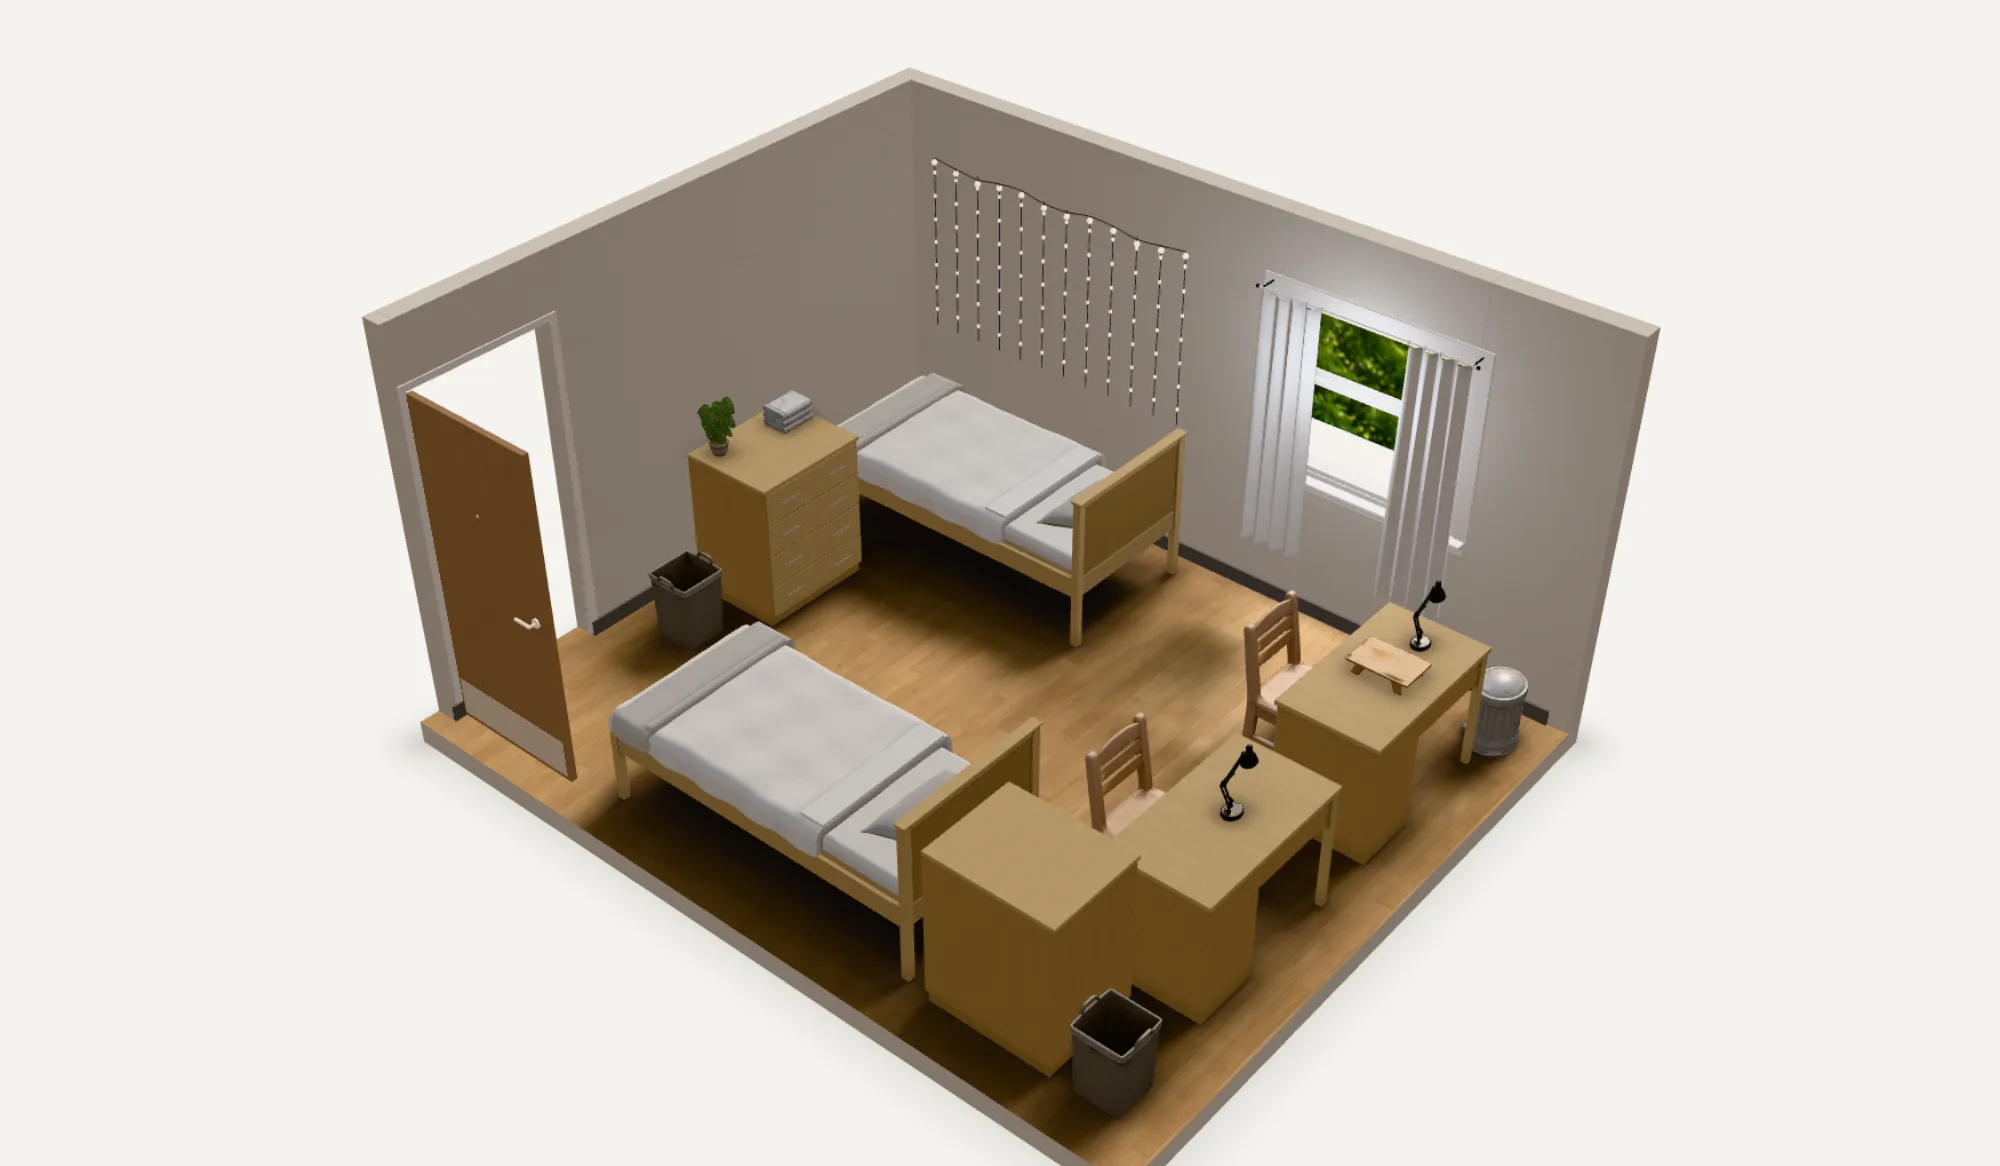
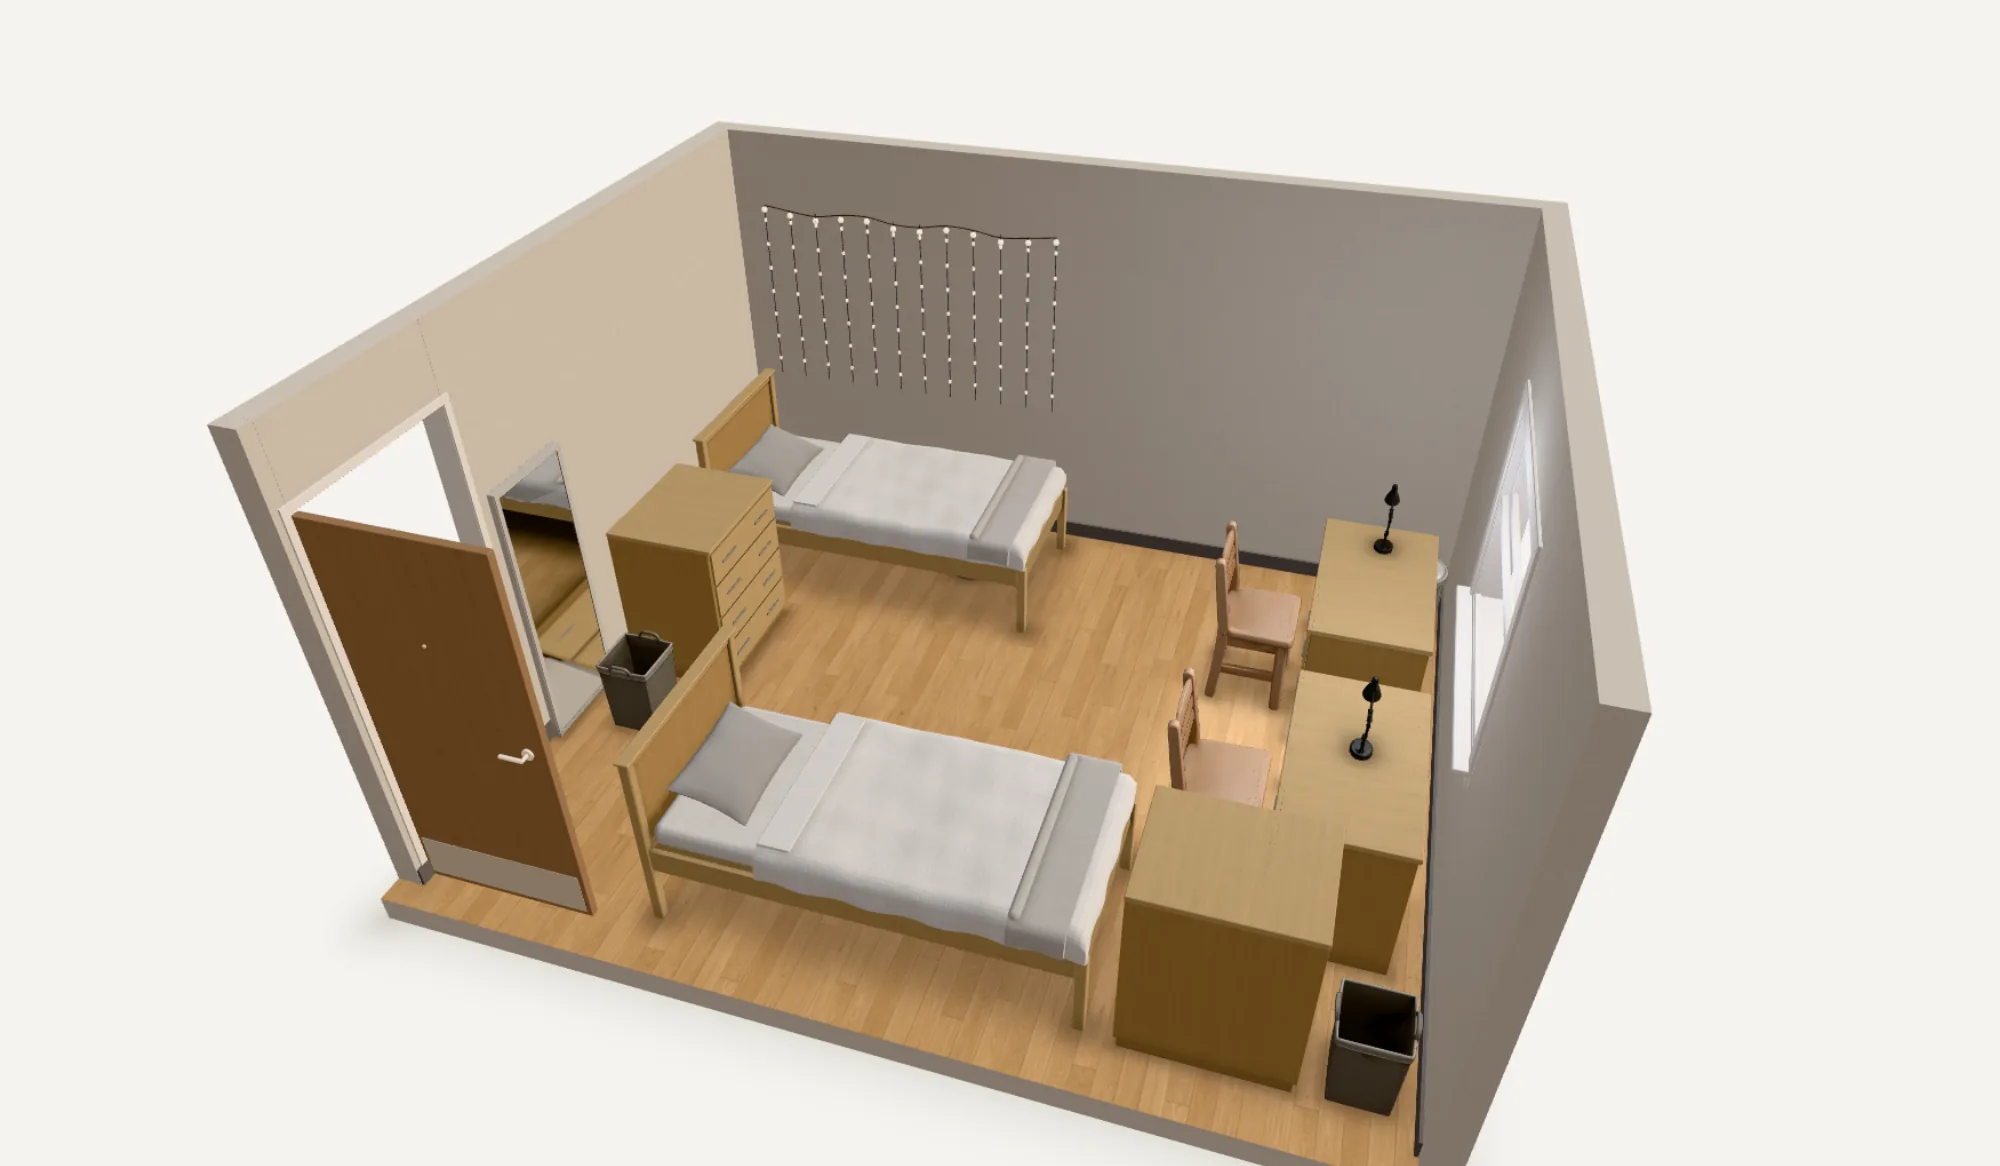
Hero demo: the live hero's layout and framing, the full-length mirror back, no glow on the bean bag
Re-rendered the room in the template's own layout, as the live hero shows it: heads of both beds at the door
wall, dresser and full-length mirror on that wall, desks and chairs under the window on the right, string lights
on the back wall. The camera is closer with a wider lens, so the room fills the stage and all three walls (door,
lights, window) show. The bean bag lands between the back bed and the desk chair, with nothing in front of it at
either end of its move, so the extra occluder layer is gone, and it moves without the pink drop-shadow glow.

Claude-Session: https://claude.ai/code/session_01S6YCHmBKmE3hFcSRhUhYcX

diff --git a/components/home/Hero.module.css b/components/home/Hero.module.css
@@ -240,10 +240,9 @@
 .ly { position: absolute; pointer-events: none; user-select: none; }
 .ly img { object-fit: fill; }
 .lyRoom { inset: 0; }
-.lyRug { left: 38.950%; top: 50.943%; width: 20.150%; height: 21.612%; animation: sprRug 12s linear infinite; }
-.lyOcc { left: 34.350%; top: 49.228%; width: 25.750%; height: 26.158%; }
-.lyBean { left: 54.750%; top: 42.967%; width: 11.200%; height: 16.638%; animation: sprBean 12s linear infinite; }
-.lyFront { left: 50.900%; top: 51.887%; width: 12.850%; height: 11.321%; }
+.lyRug { left: 38.450%; top: 53.173%; width: 19.550%; height: 18.611%; animation: sprRug 12s linear infinite; }
+.lyOcc { left: 33.450%; top: 51.372%; width: 25.600%; height: 23.585%; }
+.lyBean { left: 49.850%; top: 40.995%; width: 11.450%; height: 14.837%; animation: sprBean 12s linear infinite; }
 .dims { position: absolute; inset: 0; width: 100%; height: 100%; overflow: visible; pointer-events: none; }
 .dims line { stroke: var(--ds-blue); stroke-linecap: round; vector-effect: non-scaling-stroke; }
 .dl { stroke-width: 1.75; stroke-dasharray: 1; stroke-dashoffset: 0; }
@@ -304,8 +303,8 @@
   box-shadow: 0.25em 0.25em 0 var(--ds-ink);
   opacity: 0;
 }
-.curC { transform: translate(59.75%, 50.6%); animation: curC 12s linear infinite; }
-.curJ { transform: translate(48.94%, 61.04%); animation: curJ 12s linear infinite; }
+.curC { transform: translate(56.08%, 46.3%); animation: curC 12s linear infinite; }
+.curJ { transform: translate(48.59%, 57.6%); animation: curJ 12s linear infinite; }
 .curC .cname { background: var(--ds-magenta); }
 .curJ .cname { background: var(--ds-blue); }
 .curC .arrow { animation: pressC 12s infinite; }
@@ -384,8 +383,8 @@
 .heroCap .ft { color: var(--ds-ink); font-weight: 750; }
 
 /* ---------- The 12 s loop. Every element runs on the same clock. ---------- */
-@keyframes curC{0%{transform:translate(72%,62%);animation-timing-function:cubic-bezier(.65,0,.35,1)}4.167%{transform:translate(72%,62%);animation-timing-function:cubic-bezier(.65,0,.35,1)}10.417%{transform:translate(52.66%,56.99%)}11.25%{transform:translate(52.66%,56.99%);animation-timing-function:cubic-bezier(.45,0,.2,1)}25%{transform:translate(59.75%,50.6%)}27.5%{transform:translate(59.75%,50.6%);animation-timing-function:cubic-bezier(.65,0,.35,1)}35.833%{transform:translate(69%,34%);animation-timing-function:cubic-bezier(.65,0,.35,1)}45%{transform:translate(69.8%,35.7%);animation-timing-function:cubic-bezier(.65,0,.35,1)}54.167%{transform:translate(68.6%,35%)}64.167%{transform:translate(68.6%,35%);animation-timing-function:cubic-bezier(.65,0,.35,1)}70.833%{transform:translate(42%,69%)}75%{transform:translate(42%,69%);animation-timing-function:cubic-bezier(.65,0,.35,1)}84.167%{transform:translate(43.5%,71.5%)}90.833%{transform:translate(43.5%,71.5%);animation-timing-function:cubic-bezier(.65,0,.35,1)}100%{transform:translate(72%,62%)}}
-@keyframes curJ{0%{transform:translate(28%,67%);animation-timing-function:cubic-bezier(.65,0,.35,1)}11.667%{transform:translate(29.8%,65%);animation-timing-function:cubic-bezier(.65,0,.35,1)}23.333%{transform:translate(28.6%,68%)}28.333%{transform:translate(28.6%,68%);animation-timing-function:cubic-bezier(.65,0,.35,1)}35.833%{transform:translate(45.3%,59.66%)}36.667%{transform:translate(45.3%,59.66%);animation-timing-function:cubic-bezier(.45,0,.2,1)}53.333%{transform:translate(48.94%,61.04%)}62.5%{transform:translate(48.94%,61.04%);animation-timing-function:cubic-bezier(.65,0,.35,1)}68.333%{transform:translate(45%,35%)}72.5%{transform:translate(45%,35%);animation-timing-function:cubic-bezier(.65,0,.35,1)}79.167%{transform:translate(46%,37%)}90.833%{transform:translate(46%,37%);animation-timing-function:cubic-bezier(.65,0,.35,1)}100%{transform:translate(28%,67%)}}
+@keyframes curC{0%{transform:translate(64%,76%);animation-timing-function:cubic-bezier(.65,0,.35,1)}4.167%{transform:translate(64%,76%);animation-timing-function:cubic-bezier(.65,0,.35,1)}10.417%{transform:translate(50.88%,55.92%)}11.25%{transform:translate(50.88%,55.92%);animation-timing-function:cubic-bezier(.45,0,.2,1)}25%{transform:translate(56.08%,46.3%)}27.5%{transform:translate(56.08%,46.3%);animation-timing-function:cubic-bezier(.65,0,.35,1)}35.833%{transform:translate(74%,45%);animation-timing-function:cubic-bezier(.65,0,.35,1)}45%{transform:translate(74.8%,47%);animation-timing-function:cubic-bezier(.65,0,.35,1)}54.167%{transform:translate(73.6%,46%)}64.167%{transform:translate(73.6%,46%);animation-timing-function:cubic-bezier(.65,0,.35,1)}70.833%{transform:translate(42.5%,71.5%)}75%{transform:translate(42.5%,71.5%);animation-timing-function:cubic-bezier(.65,0,.35,1)}84.167%{transform:translate(44%,74%)}90.833%{transform:translate(44%,74%);animation-timing-function:cubic-bezier(.65,0,.35,1)}100%{transform:translate(64%,76%)}}
+@keyframes curJ{0%{transform:translate(27%,77%);animation-timing-function:cubic-bezier(.65,0,.35,1)}11.667%{transform:translate(28.8%,75%);animation-timing-function:cubic-bezier(.65,0,.35,1)}23.333%{transform:translate(27.6%,78%)}28.333%{transform:translate(27.6%,78%);animation-timing-function:cubic-bezier(.65,0,.35,1)}35.833%{transform:translate(45.01%,57.3%)}36.667%{transform:translate(45.01%,57.3%);animation-timing-function:cubic-bezier(.45,0,.2,1)}53.333%{transform:translate(48.59%,57.6%)}62.5%{transform:translate(48.59%,57.6%);animation-timing-function:cubic-bezier(.65,0,.35,1)}68.333%{transform:translate(43.5%,33.5%)}72.5%{transform:translate(43.5%,33.5%);animation-timing-function:cubic-bezier(.65,0,.35,1)}79.167%{transform:translate(45%,35.5%)}90.833%{transform:translate(45%,35.5%);animation-timing-function:cubic-bezier(.65,0,.35,1)}100%{transform:translate(27%,77%)}}
 @keyframes pressC{0%,10.417%{transform:none}11.25%,25%{transform:scale(.84)}26.25%,70.833%{transform:none}71.667%{transform:scale(.8)}73.333%,100%{transform:none}}
 @keyframes pressJ{0%,35.833%{transform:none}36.667%,53.333%{transform:scale(.84)}54.583%,68.333%{transform:none}69.167%{transform:scale(.8)}70.833%,100%{transform:none}}
 @keyframes talkC{0%,2.5%{opacity:0}4.583%,21.667%{opacity:1}23.333%,55%{opacity:0}57.083%,64.167%{opacity:1}65.833%,100%{opacity:0}}
@@ -394,8 +393,8 @@
 @keyframes capJ1{0%,24.167%{opacity:0;transform:translateY(.4em)}26.25%,34.167%{opacity:1;transform:none}35.833%,100%{opacity:0;transform:translateY(-.2em)}}
 @keyframes capC2{0%,55%{opacity:0;transform:translateY(.4em)}57.083%,64.167%{opacity:1;transform:none}65.833%,100%{opacity:0;transform:translateY(-.2em)}}
 @keyframes capJ2{0%,75%{opacity:0;transform:translateY(.4em)}77.083%,87.5%{opacity:1;transform:none}89.167%,100%{opacity:0;transform:translateY(-.2em)}}
-@keyframes sprBean{0%{transform:translate(-63.31%,38.4%) scale(1.04);opacity:1;filter:drop-shadow(0 0 0 rgba(192,24,111,0))}10.417%{filter:drop-shadow(0 0 0 rgba(192,24,111,0))}11.25%{transform:translate(-63.31%,38.4%) scale(1.04);filter:drop-shadow(0 0 4px rgba(192,24,111,.95));animation-timing-function:cubic-bezier(.45,0,.2,1)}25%{transform:none;filter:drop-shadow(0 0 4px rgba(192,24,111,.95))}27.5%{filter:drop-shadow(0 0 0 rgba(192,24,111,0))}93.333%{transform:none;opacity:1}95.833%{transform:none;opacity:0}96.25%{transform:translate(-63.31%,38.4%) scale(1.04);opacity:0}100%{transform:translate(-63.31%,38.4%) scale(1.04);opacity:1;filter:drop-shadow(0 0 0 rgba(192,24,111,0))}}
-@keyframes sprRug{0%{transform:translate(-18.07%,-6.38%) scale(.99);opacity:1;filter:drop-shadow(0 0 0 rgba(36,73,255,0))}35.833%{filter:drop-shadow(0 0 0 rgba(36,73,255,0))}36.667%{transform:translate(-18.07%,-6.38%) scale(.99);filter:drop-shadow(0 0 4px rgba(36,73,255,.95));animation-timing-function:cubic-bezier(.45,0,.2,1)}53.333%{transform:none;filter:drop-shadow(0 0 4px rgba(36,73,255,.95))}55.833%{filter:drop-shadow(0 0 0 rgba(36,73,255,0))}93.333%{transform:none;opacity:1}95.833%{transform:none;opacity:0}96.25%{transform:translate(-18.07%,-6.38%) scale(.99);opacity:0}100%{transform:translate(-18.07%,-6.38%) scale(.99);opacity:1;filter:drop-shadow(0 0 0 rgba(36,73,255,0))}}
+@keyframes sprBean{0%{transform:translate(-45.42%,64.88%) scale(1.06);opacity:1}11.25%{transform:translate(-45.42%,64.88%) scale(1.06);animation-timing-function:cubic-bezier(.45,0,.2,1)}25%{transform:none}93.333%{transform:none;opacity:1}95.833%{transform:none;opacity:0}96.25%{transform:translate(-45.42%,64.88%) scale(1.06);opacity:0}100%{transform:translate(-45.42%,64.88%) scale(1.06);opacity:1}}
+@keyframes sprRug{0%{transform:translate(-18.3%,-1.65%) scale(.98);opacity:1;filter:drop-shadow(0 0 0 rgba(36,73,255,0))}35.833%{filter:drop-shadow(0 0 0 rgba(36,73,255,0))}36.667%{transform:translate(-18.3%,-1.65%) scale(.98);filter:drop-shadow(0 0 4px rgba(36,73,255,.95));animation-timing-function:cubic-bezier(.45,0,.2,1)}53.333%{transform:none;filter:drop-shadow(0 0 4px rgba(36,73,255,.95))}55.833%{filter:drop-shadow(0 0 0 rgba(36,73,255,0))}93.333%{transform:none;opacity:1}95.833%{transform:none;opacity:0}96.25%{transform:translate(-18.3%,-1.65%) scale(.98);opacity:0}100%{transform:translate(-18.3%,-1.65%) scale(.98);opacity:1;filter:drop-shadow(0 0 0 rgba(36,73,255,0))}}
 @keyframes popBean{0%,25.417%{opacity:0;transform:scale(.6);animation-timing-function:cubic-bezier(.34,1.56,.64,1)}27.917%,91.667%{opacity:1;transform:none}95%,100%{opacity:0;transform:scale(.9)}}
 @keyframes popRug{0%,54.167%{opacity:0;transform:scale(.6);animation-timing-function:cubic-bezier(.34,1.56,.64,1)}56.667%,91.667%{opacity:1;transform:none}95%,100%{opacity:0;transform:scale(.9)}}
 @keyframes popBedA{0%,69.167%{opacity:0;transform:scale(.6);animation-timing-function:cubic-bezier(.34,1.56,.64,1)}71.667%,91.667%{opacity:1;transform:none}95%,100%{opacity:0;transform:scale(.9)}}

diff --git a/components/home/HomeHero.tsx b/components/home/HomeHero.tsx
@@ -207,35 +207,34 @@ function Stage({ dims }: { dims: React.ReactNode }) {
         <span className={css.share}>Share room</span>
       </div>
       <div className={css.view}>
-        {layer(css.lyRoom, "/redesign/hero-room-v6.webp", "A dorm double in 3D: two beds, two desks, a curtained window and string lights", true)}
+        {layer(css.lyRoom, "/redesign/hero-room-v6.webp", "A dorm double in 3D: two beds, two desks, dressers, a full-length mirror and string lights", true)}
         {layer(css.lyRug, "/redesign/hero-rug-v3.webp", "An orange rug with a light border")}
-        {layer(css.lyOcc, "/redesign/hero-occluder-v6.webp", "The near bed, dresser and desk chair, drawn over the rug")}
+        {layer(css.lyOcc, "/redesign/hero-occluder-v6.webp", "The near bed and desk chair, drawn over the rug")}
         {layer(css.lyBean, "/redesign/hero-bean-v3.webp", "A magenta bean bag chair")}
-        {layer(css.lyFront, "/redesign/hero-front-v5.webp", "A bed post and desk chair in front of the bean bag")}
         <svg className={css.dims} viewBox="0 0 1000 583.333" preserveAspectRatio="xMidYMid meet">
-          <line className={`${css.dl} ${css.dlF}`} pathLength={1} x1="472.47" y1="292.34" x2="598.82" y2="356.25" />
-          <line className={`${css.dl} ${css.dlR}`} pathLength={1} x1="454.15" y1="293.26" x2="380.18" y2="343.13" />
-          <line className={`${css.tk} ${css.tkF}`} x1="476.73" y1="289.42" x2="468.18" y2="295.27" />
-          <line className={`${css.tk} ${css.tkF}`} x1="602.93" y1="352.85" x2="594.69" y2="359.68" />
-          <line className={`${css.tk} ${css.tkR}`} x1="449.34" y1="290.8" x2="458.98" y2="295.74" />
-          <line className={`${css.tk} ${css.tkR}`} x1="375.32" y1="340.35" x2="385.08" y2="345.93" />
+          <line className={`${css.dl} ${css.dlF}`} pathLength={1} x1="434.29" y1="303.84" x2="581.94" y2="332.23" />
+          <line className={`${css.dl} ${css.dlR}`} pathLength={1} x1="417.82" y1="308.87" x2="372.11" y2="376.19" />
+          <line className={`${css.tk} ${css.tkF}`} x1="436.62" y1="300.26" x2="431.92" y2="307.47" />
+          <line className={`${css.tk} ${css.tkF}`} x1="583.22" y1="328.21" x2="580.64" y2="336.32" />
+          <line className={`${css.tk} ${css.tkR}`} x1="412.01" y1="307.74" x2="423.65" y2="310.02" />
+          <line className={`${css.tk} ${css.tkR}`} x1="365.61" y1="374.71" x2="378.66" y2="377.68" />
         </svg>
-        <span className={css.at} style={{ left: "54.32%", top: "54.13%" }}>
+        <span className={css.at} style={{ left: "51.2%", top: "51.2%" }}>
           <span className={`${css.dlbl} ${css.popDf}`}>6′0″</span>
         </span>
-        <span className={css.at} style={{ left: "40.67%", top: "53.38%" }}>
+        <span className={css.at} style={{ left: "36.6%", top: "57.4%" }}>
           <span className={`${css.dlbl} ${css.popDr}`}>4′0″</span>
         </span>
-        <span className={css.at} style={{ left: "43.5%", top: "31.5%" }}>
+        <span className={css.at} style={{ left: "40.5%", top: "37.5%" }}>
           <Tag who="j" className={css.popBedA} />
         </span>
-        <span className={css.at} style={{ left: "40%", top: "66%" }}>
+        <span className={css.at} style={{ left: "40%", top: "68%" }}>
           <Tag who="c" className={css.popBedB} />
         </span>
-        <span className={css.at} style={{ left: "48.9%", top: "59%" }}>
+        <span className={css.at} style={{ left: "48%", top: "57%" }}>
           <Tag who="s" className={css.popRug} />
         </span>
-        <span className={css.at} style={{ left: "59.9%", top: "40.5%" }}>
+        <span className={css.at} style={{ left: "55.5%", top: "37.5%" }}>
           <Tag who="c" className={css.popBean} />
         </span>
         <div className={css.toastAt}>
